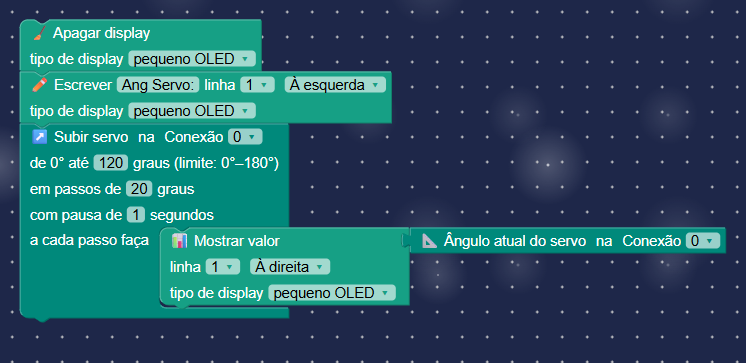
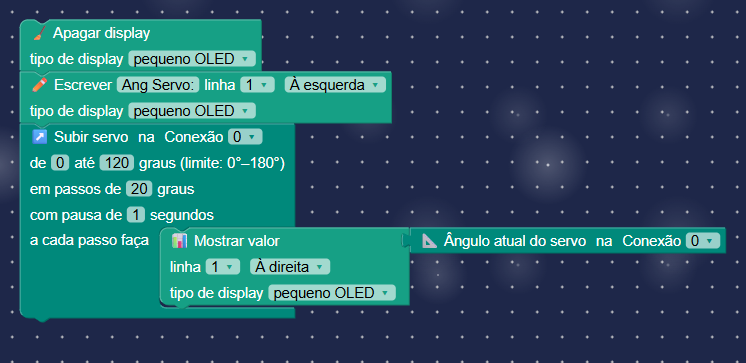
feat: allow custom gradual servo ranges

Changed region(s): [[0.0617, 0.3333, 0.4008, 0.6364], [0.37, 0.8485, 0.4008, 0.8788]]

diff --git a/src/js/blocks/definitions/servo.js b/src/js/blocks/definitions/servo.js
@@ -67,6 +67,8 @@
 
   function appendGradualInputs(block, direction) {
     var ascending = direction === 'up';
+    var defaultStart = ascending ? 0 : 180;
+    var defaultTarget = ascending ? 180 : 0;
 
     block.appendDummyInput('HEADER')
         .appendField(ascending
@@ -76,10 +78,10 @@
         .appendField(digField(), 'DIG');
 
     block.appendDummyInput('TARGET_ROW')
-        .appendField(ascending
-          ? (isEnglish() ? 'from 0° to' : 'de 0° até')
-          : (isEnglish() ? 'from 180° to' : 'de 180° até'))
-        .appendField(angleField(90), 'TARGET')
+        .appendField(isEnglish() ? 'from' : 'de')
+        .appendField(angleField(defaultStart), 'START')
+        .appendField(isEnglish() ? 'to' : 'até')
+        .appendField(angleField(defaultTarget), 'TARGET')
         .appendField(isEnglish() ? 'degrees (limit: 0°–180°)' : 'graus (limite: 0°–180°)');
 
     block.appendDummyInput('STEP_ROW')
@@ -161,8 +163,8 @@
     init: function() {
       appendGradualInputs(this, 'up');
       this.setTooltip(isEnglish()
-        ? 'Starts at 0 degrees and raises the servo step by step to the final angle.'
-        : 'Começa em 0 graus e sobe o servo passo a passo até o ângulo final.');
+        ? 'Raises the servo step by step from the chosen initial angle to a greater final angle.'
+        : 'Sobe o servo passo a passo do ângulo inicial escolhido até um ângulo final maior.');
     }
   };
 
@@ -170,8 +172,8 @@
     init: function() {
       appendGradualInputs(this, 'down');
       this.setTooltip(isEnglish()
-        ? 'Starts at 180 degrees and lowers the servo step by step to the final angle.'
-        : 'Começa em 180 graus e desce o servo passo a passo até o ângulo final.');
+        ? 'Lowers the servo step by step from the chosen initial angle to a smaller final angle.'
+        : 'Desce o servo passo a passo do ângulo inicial escolhido até um ângulo final menor.');
     }
   };
 

diff --git a/src/js/blocks/generators/servo.js b/src/js/blocks/generators/servo.js
@@ -166,7 +166,10 @@
 
     var config = servoConfig();
     var dig = Number(block.getFieldValue('DIG'));
-    var targetExpression = numberFieldCode(block, 'TARGET', '90');
+    var defaultStart = ascending ? String(config.MIN_ANGLE) : String(config.MAX_ANGLE);
+    var defaultTarget = ascending ? String(config.MAX_ANGLE) : String(config.MIN_ANGLE);
+    var startExpression = numberFieldCode(block, 'START', defaultStart);
+    var targetExpression = numberFieldCode(block, 'TARGET', defaultTarget);
     var stepExpression = numberFieldCode(block, 'STEP', '10');
     var pauseExpression = numberFieldCode(block, 'PAUSE', '3');
     var eachStep = Blockly.Python.statementToCode(block, 'EACH_STEP');
@@ -176,7 +179,6 @@
     var stepName = distinctName('servo_step');
     var pauseName = distinctName('servo_pause');
     var angleName = distinctName('servo_angle');
-    var startAngle = ascending ? config.MIN_ANGLE : config.MAX_ANGLE;
     var comparison = ascending ? '<' : '>';
     var advance = ascending
       ? 'min(' + angleName + ' + ' + stepName + ', ' + targetName + ')'
@@ -186,7 +188,7 @@
     code += targetName + ' = max(' + config.MIN_ANGLE + ', min(' + config.MAX_ANGLE + ', ' + targetExpression + '))\n';
     code += stepName + ' = max(1, abs(' + stepExpression + '))\n';
     code += pauseName + ' = max(0, ' + pauseExpression + ')\n';
-    code += angleName + ' = ' + startAngle + '\n';
+    code += angleName + ' = max(' + config.MIN_ANGLE + ', min(' + config.MAX_ANGLE + ', ' + startExpression + '))\n';
     code += 'while True:\n';
     code += '  _servo_move(' + dig + ', ' + angleName + ')\n';
     code += '  time.sleep(' + pauseName + ')\n';

diff --git a/src/js/blocks/contracts/registry.js b/src/js/blocks/contracts/registry.js
@@ -22,6 +22,8 @@
       servoOledV7PinConflict: 'Na BitDogLab V7, as Conexões 2 e 3 compartilham os GPIOs usados pelo display OLED. Para usar servo e display juntos, escolha a Conexão 0 ou 1 no servo.',
       servoAngleConnectionMismatch: 'O bloco Ângulo atual usa a Conexão %1, mas nenhum bloco que move o servo usa essa mesma Conexão.',
       servoJoystickSameDirection: 'Escolha direções diferentes para subir e descer o servo. A mesma direção não consegue fazer os dois movimentos.',
+      servoRaiseAngleOrder: 'Para subir o servo, o ângulo inicial deve ser menor que o ângulo final.',
+      servoLowerAngleOrder: 'Para descer o servo, o ângulo inicial deve ser maior que o ângulo final.',
       generic: 'Revise a conexão deste bloco.'
     },
     en: {
@@ -41,6 +43,8 @@
       servoOledV7PinConflict: 'On BitDogLab V7, Connections 2 and 3 share the GPIOs used by the OLED display. To use a servo and display together, choose Connection 0 or 1 for the servo.',
       servoAngleConnectionMismatch: 'The Current angle block uses Connection %1, but no block that moves the servo uses that same Connection.',
       servoJoystickSameDirection: 'Choose different directions to raise and lower the servo. The same direction cannot perform both movements.',
+      servoRaiseAngleOrder: 'To raise the servo, the initial angle must be less than the final angle.',
+      servoLowerAngleOrder: 'To lower the servo, the initial angle must be greater than the final angle.',
       generic: 'Review this block connection.'
     }
   };

diff --git a/src/js/blocks/contracts/validator.js b/src/js/blocks/contracts/validator.js
@@ -522,6 +522,22 @@
           block.getFieldValue('DIR_INCREASE') === block.getFieldValue('DIR_DECREASE')) {
         addWarning(warnings, block, msg('servoJoystickSameDirection'));
       }
+
+      if (block.type === 'servo_subir_gradualmente') {
+        var raiseStart = Number(block.getFieldValue('START'));
+        var raiseTarget = Number(block.getFieldValue('TARGET'));
+        if (raiseStart >= raiseTarget) {
+          addWarning(warnings, block, msg('servoRaiseAngleOrder'));
+        }
+      }
+
+      if (block.type === 'servo_descer_gradualmente') {
+        var lowerStart = Number(block.getFieldValue('START'));
+        var lowerTarget = Number(block.getFieldValue('TARGET'));
+        if (lowerStart <= lowerTarget) {
+          addWarning(warnings, block, msg('servoLowerAngleOrder'));
+        }
+      }
     }
 
     if (Object.keys(controllerConnections).length === 0) return;

diff --git a/tests/external_connections_toolbox_smoke.js b/tests/external_connections_toolbox_smoke.js
@@ -88,9 +88,13 @@ assert.match(workspaceHints, /peça ajuda ao professor/);
 assert.match(contracts, /servoOledV7PinConflict:/);
 assert.match(contracts, /servoAngleConnectionMismatch:/);
 assert.match(contracts, /servoJoystickSameDirection:/);
+assert.match(contracts, /servoRaiseAngleOrder:/);
+assert.match(contracts, /servoLowerAngleOrder:/);
 assert.match(contractValidator, /function validateServoOledV7PinConflicts\(blocks, warnings\)/);
 assert.match(contractValidator, /function validateServoRules\(blocks, warnings\)/);
 assert.match(contractValidator, /block\.getFieldValue\('DIR_INCREASE'\) === block\.getFieldValue\('DIR_DECREASE'\)/);
+assert.match(contractValidator, /raiseStart >= raiseTarget/);
+assert.match(contractValidator, /lowerStart <= lowerTarget/);
 assert.match(contractValidator, /config\.PINS\.I2C_SDA, config\.PINS\.I2C_SCL/);
 
 [
